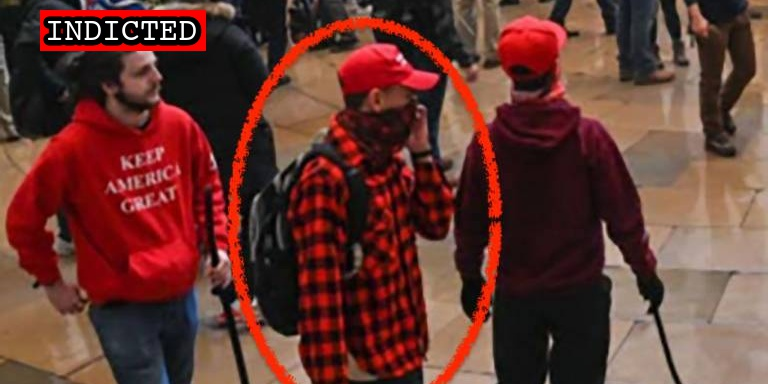
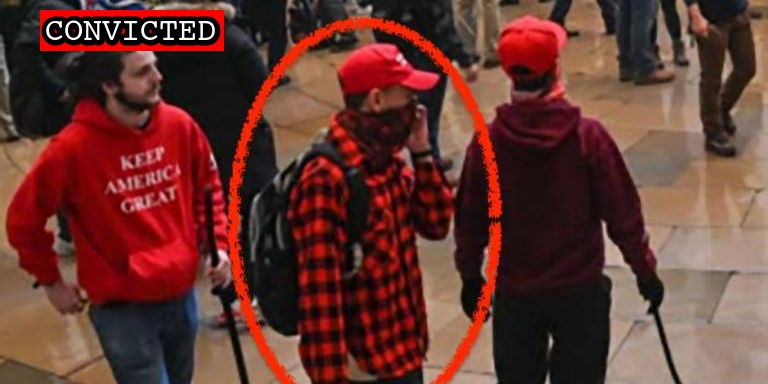
Latest pleas

Changed region(s): [[0.0312, 0.0, 0.3125, 0.1562]]

diff --git a/docs/_suspects/elliot-bishai.md b/docs/_suspects/elliot-bishai.md
@@ -4,15 +4,17 @@ lastName: Bishai
 hashtag: ElliotBishai
 aka:
 residence: South Carolina
-status: Indicted
+status: Convicted
 date: 2021-03-15
 charged: 2021-03-15
 indicted: 2021-12-15
-convicted:
+convicted: 2022-04-25
+acquitted:
 sentenced:
 dismissed:
 deceased:
-plea_hearing:
+plea_hearing: 2022-04-25
+trial_date:
 sentencing:
 age: 20
 occupation:
@@ -34,6 +36,10 @@ published: true
 caseNumber: 1:21-cr-282
 videos:
 charges:
+  - code: 18 USC § 1752(a)(1)
+    title: Entering a restricted building or grounds
+    url: https://www.law.cornell.edu/uscode/text/18/1752
+    felony: false
 sentence:
 ---
 
